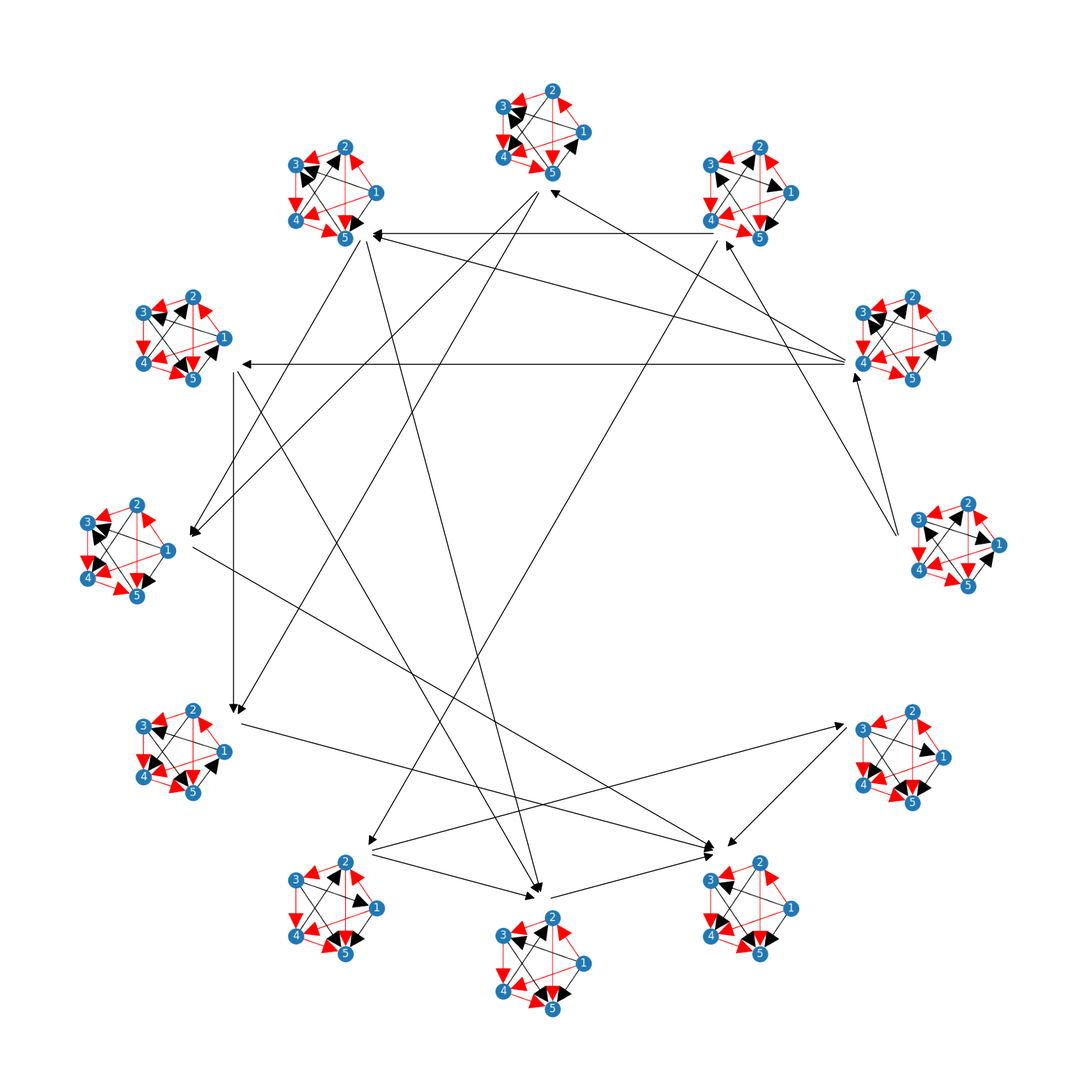
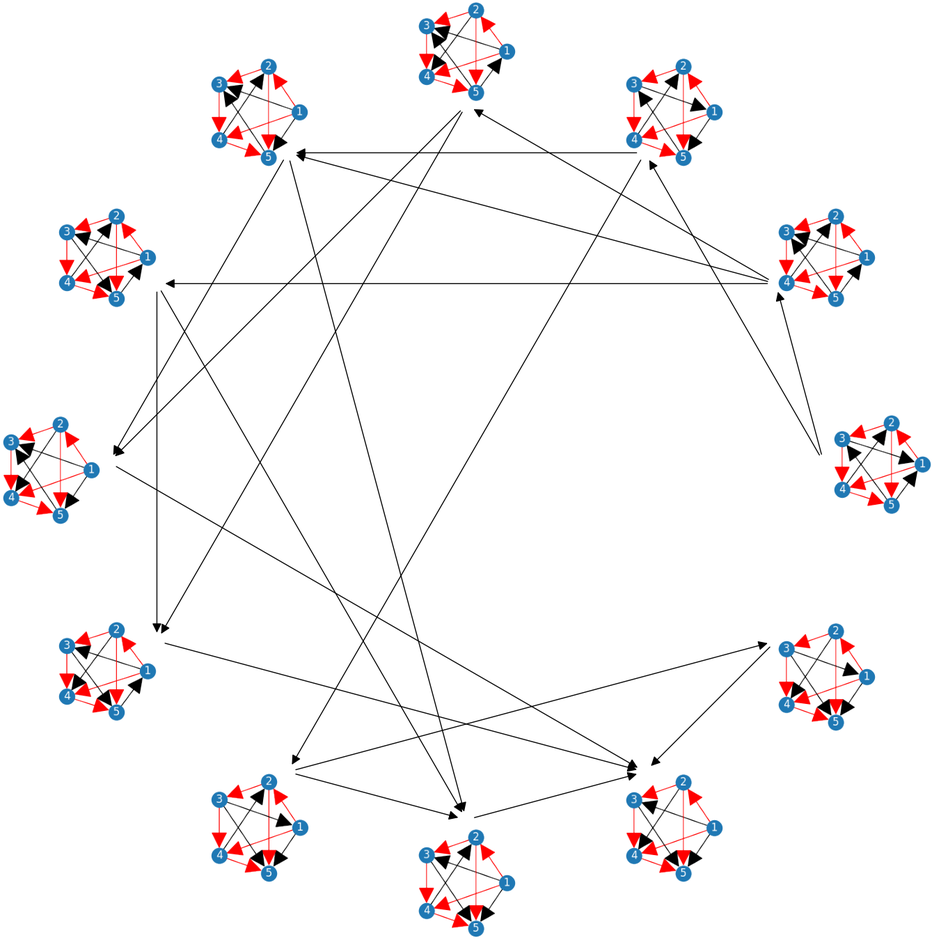
visualization and big iso changes

diff --git a/report_LIPIcs/main.tex b/report_LIPIcs/main.tex
@@ -14,6 +14,12 @@
 %\pdfoutput=1 %uncomment to ensure pdflatex processing (mandatatory e.g. to submit to arXiv)
 %\hideLIPIcs  %uncomment to remove references to LIPIcs series (logo, DOI, ...), e.g. when preparing a pre-final version to be uploaded to arXiv or another public repository
 \usepackage{graphicx}
+\usepackage{pgfplots}
+\pgfplotsset{width=10cm,compat=1.9}
+
+% We will externalize the figures
+\usepgfplotslibrary{external}
+\tikzexternalize
 %\usepackage{amsmath, amssymb}
 %\graphicspath{{./graphics/}}%helpful if your graphic files are in another directory
 
@@ -247,15 +253,114 @@ By the inductive hypothesis,
 
 Additionally, there is a long-known result from graph theory that implies that there are at most $O(n\log n)$ units possible. By the orbit-stabilizer theorem \textbf{need to cite? or just explain more why it applies probably}, the size of the equivalence class of a graph $G$ on $n$ vertices is $\frac{n!}{|Aut(G)|}$, where $Aut(G)$ s the set of distinct automorphisms of $G$. In 1963 Erd\"os and Renyi \textbf{CITE} proved that as $n$ approaches infinity, the proportion of graphs of size $n$ with with multiple automorphisms approaches 0. Therefore, a proportion of graphs approaching 1 have equivalence classes of size $n!$, so the number of equivalence classes is approximately $\frac{2^{n \choose 2}}{n!} \simeq \frac{2^{n \choose 2}}{2^{n\log n}} = 2^{{n \choose 2} - n\log n}$. An isolator with $k$ unit clauses for $n$-vertex graphs admits at most $2^{{n \choose 2} - k}$ equivalence class representatives, so the number of units is also asymptotically upper-bounded by $n \log n$.
 
-\begin{figure}
-\includegraphics[width=0.6\textwidth]{nlogn_200.png}
-\caption{Comparison of $units(n)$ and the proven lower bound denoted as $LB(n)$} \label{nlogn_200}
-\end{figure}
+\begin{tikzpicture}
+\begin{axis}[
+    title={units(n) and lower bound comparison for small n},
+    xlabel={n [number of vertices]},
+    ylabel={number of unit clauses},
+    xmin=0, xmax=200,
+    ymin=0, ymax=600,
+    xtick={0,40,80,120,160,200},
+    ytick={0,100,200,300,400,500,600},
+    legend pos=north west,
+    ymajorgrids=true,
+    grid style=dashed,
+]
 
-\begin{figure}
-\includegraphics[width=0.4\textwidth]{nlogn_huge.png}
-\caption{Comparison of $units(n)$ and the proven lower bound denoted as $LB(n)$ for large $n$} \label{nlogn_huge}
-\end{figure}
+\addplot[
+    color=blue,
+    ]
+    coordinates {
+    (2,0.5)(3,1.0)(4,2.0)(5,3.0)(6,4.0)(7,5.0)(8,6.5)(9,8.0)(10,9.5)(11,11.0)(12,12.5)(13,14.0)(14,15.5)(15,17.0)(16,19.0)(17,21.0)(18,23.0)(19,25.0)(20,27.0)(21,29.0)(22,31.0)(23,33.0)(24,35.0)(25,37.0)(26,39.0)(27,41.0)(28,43.0)(29,45.0)(30,47.0)(31,49.0)(32,51.5)(33,54.0)(34,56.5)(35,59.0)(36,61.5)(37,64.0)(38,66.5)(39,69.0)(40,71.5)(41,74.0)(42,76.5)(43,79.0)(44,81.5)(45,84.0)(46,86.5)(47,89.0)(48,91.5)(49,94.0)(50,96.5)(51,99.0)(52,101.5)(53,104.0)(54,106.5)(55,109.0)(56,111.5)(57,114.0)(58,116.5)(59,119.0)(60,121.5)(61,124.0)(62,126.5)(63,129.0)(64,132.0)(65,135.0)(66,138.0)(67,141.0)(68,144.0)(69,147.0)(70,150.0)(71,153.0)(72,156.0)(73,159.0)(74,162.0)(75,165.0)(76,168.0)(77,171.0)(78,174.0)(79,177.0)(80,180.0)(81,183.0)(82,186.0)(83,189.0)(84,192.0)(85,195.0)(86,198.0)(87,201.0)(88,204.0)(89,207.0)(90,210.0)(91,213.0)(92,216.0)(93,219.0)(94,222.0)(95,225.0)(96,228.0)(97,231.0)(98,234.0)(99,237.0)(100,240.0)(101,243.0)(102,246.0)(103,249.0)(104,252.0)(105,255.0)(106,258.0)(107,261.0)(108,264.0)(109,267.0)(110,270.0)(111,273.0)(112,276.0)(113,279.0)(114,282.0)(115,285.0)(116,288.0)(117,291.0)(118,294.0)(119,297.0)(120,300.0)(121,303.0)(122,306.0)(123,309.0)(124,312.0)(125,315.0)(126,318.0)(127,321.0)(128,324.5)(129,328.0)(130,331.5)(131,335.0)(132,338.5)(133,342.0)(134,345.5)(135,349.0)(136,352.5)(137,356.0)(138,359.5)(139,363.0)(140,366.5)(141,370.0)(142,373.5)(143,377.0)(144,380.5)(145,384.0)(146,387.5)(147,391.0)(148,394.5)(149,398.0)(150,401.5)(151,405.0)(152,408.5)(153,412.0)(154,415.5)(155,419.0)(156,422.5)(157,426.0)(158,429.5)(159,433.0)(160,436.5)(161,440.0)(162,443.5)(163,447.0)(164,450.5)(165,454.0)(166,457.5)(167,461.0)(168,464.5)(169,468.0)(170,471.5)(171,475.0)(172,478.5)(173,482.0)(174,485.5)(175,489.0)(176,492.5)(177,496.0)(178,499.5)(179,503.0)(180,506.5)(181,510.0)(182,513.5)(183,517.0)(184,520.5)(185,524.0)(186,527.5)(187,531.0)(188,534.5)(189,538.0)(190,541.5)(191,545.0)(192,548.5)(193,552.0)(194,555.5)(195,559.0)(196,562.5)(197,566.0)(198,569.5)(199,573.0)
+    };
+    \addlegendentry{$\frac{1}{2}\sum_{i=1}^n \log_2(i)$}
+    
+\addplot[
+    color=red,
+    ]
+    coordinates {
+(2,1)(3,1)(4,3)(5,4)(6,4)(7,6)(8,9)(9,10)(10,10)(11,12)(12,15)(13,16)(14,16)(15,18)(16,22)(17,25)(18,26)(19,26)(20,28)(21,32)(22,35)(23,36)(24,36)(25,38)(26,42)(27,45)(28,46)(29,46)(30,48)(31,52)(32,57)(33,60)(34,61)(35,61)(36,63)(37,67)(38,72)(39,75)(40,76)(41,76)(42,78)(43,82)(44,87)(45,90)(46,91)(47,91)(48,93)(49,97)(50,102)(51,105)(52,106)(53,106)(54,108)(55,112)(56,117)(57,120)(58,121)(59,121)(60,123)(61,127)(62,132)(63,135)(64,141)(65,142)(66,142)(67,144)(68,148)(69,153)(70,156)(71,162)(72,163)(73,163)(74,165)(75,169)(76,174)(77,177)(78,183)(79,184)(80,184)(81,186)(82,190)(83,195)(84,198)(85,204)(86,205)(87,205)(88,207)(89,211)(90,216)(91,219)(92,225)(93,226)(94,226)(95,228)(96,232)(97,237)(98,240)(99,246)(100,247)(101,247)(102,249)(103,253)(104,258)(105,261)(106,267)(107,268)(108,268)(109,270)(110,274)(111,279)(112,282)(113,288)(114,289)(115,289)(116,291)(117,295)(118,300)(119,303)(120,309)(121,310)(122,310)(123,312)(124,316)(125,321)(126,324)(127,330)(128,337)(129,338)(130,338)(131,340)(132,344)(133,349)(134,352)(135,358)(136,365)(137,366)(138,366)(139,368)(140,372)(141,377)(142,380)(143,386)(144,393)(145,394)(146,394)(147,396)(148,400)(149,405)(150,408)(151,414)(152,421)(153,422)(154,422)(155,424)(156,428)(157,433)(158,436)(159,442)(160,449)(161,450)(162,450)(163,452)(164,456)(165,461)(166,464)(167,470)(168,477)(169,478)(170,478)(171,480)(172,484)(173,489)(174,492)(175,498)(176,505)(177,506)(178,506)(179,508)(180,512)(181,517)(182,520)(183,526)(184,533)(185,534)(186,534)(187,536)(188,540)(189,545)(190,548)(191,554)(192,561)(193,562)(194,562)(195,564)(196,568)(197,573)(198,576)(199,582)
+    };
+    \addlegendentry{units(n)}
+    
+\end{axis}
+\end{tikzpicture}
+
+\begin{tikzpicture}
+\begin{axis}[
+    title={units(n) and lower bound comparison for large n},
+    xlabel={n [number of vertices]},
+    ylabel={number of unit clauses},
+    xmin=0, xmax=100000,
+    ymin=0, ymax=800000,
+    xtick={0,20000,40000,60000,80000,100000},
+    ytick={0,100000,200000,300000,400000,500000,600000,700000,800000},
+    legend pos=north west,
+    ymajorgrids=true,
+    grid style=dashed,
+]
+
+\addplot[
+    color=blue,
+    ]
+    coordinates {
+(2,0.5)(101,243.0)(200,576.5)(299,945.0)(398,1341.0)(497,1737.0)(596,2175.5)(695,2621.0)(794,3066.5)(893,3512.0)(992,3957.5)(1091,4437.0)(1190,4932.0)(1289,5427.0)(1388,5922.0)(1487,6417.0)(1586,6912.0)(1685,7407.0)(1784,7902.0)(1883,8397.0)(1982,8892.0)(2081,9404.0)(2180,9948.5)(2279,10493.0)(2378,11037.5)(2477,11582.0)(2576,12126.5)(2675,12671.0)(2774,13215.5)(2873,13760.0)(2972,14304.5)(3071,14849.0)(3170,15393.5)(3269,15938.0)(3368,16482.5)(3467,17027.0)(3566,17571.5)(3665,18116.0)(3764,18660.5)(3863,19205.0)(3962,19749.5)(4061,20294.0)(4160,20871.0)(4259,21465.0)(4358,22059.0)(4457,22653.0)(4556,23247.0)(4655,23841.0)(4754,24435.0)(4853,25029.0)(4952,25623.0)(5051,26217.0)(5150,26811.0)(5249,27405.0)(5348,27999.0)(5447,28593.0)(5546,29187.0)(5645,29781.0)(5744,30375.0)(5843,30969.0)(5942,31563.0)(6041,32157.0)(6140,32751.0)(6239,33345.0)(6338,33939.0)(6437,34533.0)(6536,35127.0)(6635,35721.0)(6734,36315.0)(6833,36909.0)(6932,37503.0)(7031,38097.0)(7130,38691.0)(7229,39285.0)(7328,39879.0)(7427,40473.0)(7526,41067.0)(7625,41661.0)(7724,42255.0)(7823,42849.0)(7922,43443.0)(8021,44037.0)(8120,44631.0)(8219,45239.0)(8318,45882.5)(8417,46526.0)(8516,47169.5)(8615,47813.0)(8714,48456.5)(8813,49100.0)(8912,49743.5)(9011,50387.0)(9110,51030.5)(9209,51674.0)(9308,52317.5)(9407,52961.0)(9506,53604.5)(9605,54248.0)(9704,54891.5)(9803,55535.0)(9902,56178.5)(10001,56822.0)(10100,57465.5)(10199,58109.0)(10298,58752.5)(10397,59396.0)(10496,60039.5)(10595,60683.0)(10694,61326.5)(10793,61970.0)(10892,62613.5)(10991,63257.0)(11090,63900.5)(11189,64544.0)(11288,65187.5)(11387,65831.0)(11486,66474.5)(11585,67118.0)(11684,67761.5)(11783,68405.0)(11882,69048.5)(11981,69692.0)(12080,70335.5)(12179,70979.0)(12278,71622.5)(12377,72266.0)(12476,72909.5)(12575,73553.0)(12674,74196.5)(12773,74840.0)(12872,75483.5)(12971,76127.0)(13070,76770.5)(13169,77414.0)(13268,78057.5)(13367,78701.0)(13466,79344.5)(13565,79988.0)(13664,80631.5)(13763,81275.0)(13862,81918.5)(13961,82562.0)(14060,83205.5)(14159,83849.0)(14258,84492.5)(14357,85136.0)(14456,85779.5)(14555,86423.0)(14654,87066.5)(14753,87710.0)(14852,88353.5)(14951,88997.0)(15050,89640.5)(15149,90284.0)(15248,90927.5)(15347,91571.0)(15446,92214.5)(15545,92858.0)(15644,93501.5)(15743,94145.0)(15842,94788.5)(15941,95432.0)(16040,96075.5)(16139,96719.0)(16238,97362.5)(16337,98006.0)(16436,98676.0)(16535,99369.0)(16634,100062.0)(16733,100755.0)(16832,101448.0)(16931,102141.0)(17030,102834.0)(17129,103527.0)(17228,104220.0)(17327,104913.0)(17426,105606.0)(17525,106299.0)(17624,106992.0)(17723,107685.0)(17822,108378.0)(17921,109071.0)(18020,109764.0)(18119,110457.0)(18218,111150.0)(18317,111843.0)(18416,112536.0)(18515,113229.0)(18614,113922.0)(18713,114615.0)(18812,115308.0)(18911,116001.0)(19010,116694.0)(19109,117387.0)(19208,118080.0)(19307,118773.0)(19406,119466.0)(19505,120159.0)(19604,120852.0)(19703,121545.0)(19802,122238.0)(19901,122931.0)(20000,123624.0)(20099,124317.0)(20198,125010.0)(20297,125703.0)(20396,126396.0)(20495,127089.0)(20594,127782.0)(20693,128475.0)(20792,129168.0)(20891,129861.0)(20990,130554.0)(21089,131247.0)(21188,131940.0)(21287,132633.0)(21386,133326.0)(21485,134019.0)(21584,134712.0)(21683,135405.0)(21782,136098.0)(21881,136791.0)(21980,137484.0)(22079,138177.0)(22178,138870.0)(22277,139563.0)(22376,140256.0)(22475,140949.0)(22574,141642.0)(22673,142335.0)(22772,143028.0)(22871,143721.0)(22970,144414.0)(23069,145107.0)(23168,145800.0)(23267,146493.0)(23366,147186.0)(23465,147879.0)(23564,148572.0)(23663,149265.0)(23762,149958.0)(23861,150651.0)(23960,151344.0)(24059,152037.0)(24158,152730.0)(24257,153423.0)(24356,154116.0)(24455,154809.0)(24554,155502.0)(24653,156195.0)(24752,156888.0)(24851,157581.0)(24950,158274.0)(25049,158967.0)(25148,159660.0)(25247,160353.0)(25346,161046.0)(25445,161739.0)(25544,162432.0)(25643,163125.0)(25742,163818.0)(25841,164511.0)(25940,165204.0)(26039,165897.0)(26138,166590.0)(26237,167283.0)(26336,167976.0)(26435,168669.0)(26534,169362.0)(26633,170055.0)(26732,170748.0)(26831,171441.0)(26930,172134.0)(27029,172827.0)(27128,173520.0)(27227,174213.0)(27326,174906.0)(27425,175599.0)(27524,176292.0)(27623,176985.0)(27722,177678.0)(27821,178371.0)(27920,179064.0)(28019,179757.0)(28118,180450.0)(28217,181143.0)(28316,181836.0)(28415,182529.0)(28514,183222.0)(28613,183915.0)(28712,184608.0)(28811,185301.0)(28910,185994.0)(29009,186687.0)(29108,187380.0)(29207,188073.0)(29306,188766.0)(29405,189459.0)(29504,190152.0)(29603,190845.0)(29702,191538.0)(29801,192231.0)(29900,192924.0)(29999,193617.0)(30098,194310.0)(30197,195003.0)(30296,195696.0)(30395,196389.0)(30494,197082.0)(30593,197775.0)(30692,198468.0)(30791,199161.0)(30890,199854.0)(30989,200547.0)(31088,201240.0)(31187,201933.0)(31286,202626.0)(31385,203319.0)(31484,204012.0)(31583,204705.0)(31682,205398.0)(31781,206091.0)(31880,206784.0)(31979,207477.0)(32078,208170.0)(32177,208863.0)(32276,209556.0)(32375,210249.0)(32474,210942.0)(32573,211635.0)(32672,212328.0)(32771,213023.0)(32870,213765.5)(32969,214508.0)(33068,215250.5)(33167,215993.0)(33266,216735.5)(33365,217478.0)(33464,218220.5)(33563,218963.0)(33662,219705.5)(33761,220448.0)(33860,221190.5)(33959,221933.0)(34058,222675.5)(34157,223418.0)(34256,224160.5)(34355,224903.0)(34454,225645.5)(34553,226388.0)(34652,227130.5)(34751,227873.0)(34850,228615.5)(34949,229358.0)(35048,230100.5)(35147,230843.0)(35246,231585.5)(35345,232328.0)(35444,233070.5)(35543,233813.0)(35642,234555.5)(35741,235298.0)(35840,236040.5)(35939,236783.0)(36038,237525.5)(36137,238268.0)(36236,239010.5)(36335,239753.0)(36434,240495.5)(36533,241238.0)(36632,241980.5)(36731,242723.0)(36830,243465.5)(36929,244208.0)(37028,244950.5)(37127,245693.0)(37226,246435.5)(37325,247178.0)(37424,247920.5)(37523,248663.0)(37622,249405.5)(37721,250148.0)(37820,250890.5)(37919,251633.0)(38018,252375.5)(38117,253118.0)(38216,253860.5)(38315,254603.0)(38414,255345.5)(38513,256088.0)(38612,256830.5)(38711,257573.0)(38810,258315.5)(38909,259058.0)(39008,259800.5)(39107,260543.0)(39206,261285.5)(39305,262028.0)(39404,262770.5)(39503,263513.0)(39602,264255.5)(39701,264998.0)(39800,265740.5)(39899,266483.0)(39998,267225.5)(40097,267968.0)(40196,268710.5)(40295,269453.0)(40394,270195.5)(40493,270938.0)(40592,271680.5)(40691,272423.0)(40790,273165.5)(40889,273908.0)(40988,274650.5)(41087,275393.0)(41186,276135.5)(41285,276878.0)(41384,277620.5)(41483,278363.0)(41582,279105.5)(41681,279848.0)(41780,280590.5)(41879,281333.0)(41978,282075.5)(42077,282818.0)(42176,283560.5)(42275,284303.0)(42374,285045.5)(42473,285788.0)(42572,286530.5)(42671,287273.0)(42770,288015.5)(42869,288758.0)(42968,289500.5)(43067,290243.0)(43166,290985.5)(43265,291728.0)(43364,292470.5)(43463,293213.0)(43562,293955.5)(43661,294698.0)(43760,295440.5)(43859,296183.0)(43958,296925.5)(44057,297668.0)(44156,298410.5)(44255,299153.0)(44354,299895.5)(44453,300638.0)(44552,301380.5)(44651,302123.0)(44750,302865.5)(44849,303608.0)(44948,304350.5)(45047,305093.0)(45146,305835.5)(45245,306578.0)(45344,307320.5)(45443,308063.0)(45542,308805.5)(45641,309548.0)(45740,310290.5)(45839,311033.0)(45938,311775.5)(46037,312518.0)(46136,313260.5)(46235,314003.0)(46334,314745.5)(46433,315488.0)(46532,316230.5)(46631,316973.0)(46730,317715.5)(46829,318458.0)(46928,319200.5)(47027,319943.0)(47126,320685.5)(47225,321428.0)(47324,322170.5)(47423,322913.0)(47522,323655.5)(47621,324398.0)(47720,325140.5)(47819,325883.0)(47918,326625.5)(48017,327368.0)(48116,328110.5)(48215,328853.0)(48314,329595.5)(48413,330338.0)(48512,331080.5)(48611,331823.0)(48710,332565.5)(48809,333308.0)(48908,334050.5)(49007,334793.0)(49106,335535.5)(49205,336278.0)(49304,337020.5)(49403,337763.0)(49502,338505.5)(49601,339248.0)(49700,339990.5)(49799,340733.0)(49898,341475.5)(49997,342218.0)(50096,342960.5)(50195,343703.0)(50294,344445.5)(50393,345188.0)(50492,345930.5)(50591,346673.0)(50690,347415.5)(50789,348158.0)(50888,348900.5)(50987,349643.0)(51086,350385.5)(51185,351128.0)(51284,351870.5)(51383,352613.0)(51482,353355.5)(51581,354098.0)(51680,354840.5)(51779,355583.0)(51878,356325.5)(51977,357068.0)(52076,357810.5)(52175,358553.0)(52274,359295.5)(52373,360038.0)(52472,360780.5)(52571,361523.0)(52670,362265.5)(52769,363008.0)(52868,363750.5)(52967,364493.0)(53066,365235.5)(53165,365978.0)(53264,366720.5)(53363,367463.0)(53462,368205.5)(53561,368948.0)(53660,369690.5)(53759,370433.0)(53858,371175.5)(53957,371918.0)(54056,372660.5)(54155,373403.0)(54254,374145.5)(54353,374888.0)(54452,375630.5)(54551,376373.0)(54650,377115.5)(54749,377858.0)(54848,378600.5)(54947,379343.0)(55046,380085.5)(55145,380828.0)(55244,381570.5)(55343,382313.0)(55442,383055.5)(55541,383798.0)(55640,384540.5)(55739,385283.0)(55838,386025.5)(55937,386768.0)(56036,387510.5)(56135,388253.0)(56234,388995.5)(56333,389738.0)(56432,390480.5)(56531,391223.0)(56630,391965.5)(56729,392708.0)(56828,393450.5)(56927,394193.0)(57026,394935.5)(57125,395678.0)(57224,396420.5)(57323,397163.0)(57422,397905.5)(57521,398648.0)(57620,399390.5)(57719,400133.0)(57818,400875.5)(57917,401618.0)(58016,402360.5)(58115,403103.0)(58214,403845.5)(58313,404588.0)(58412,405330.5)(58511,406073.0)(58610,406815.5)(58709,407558.0)(58808,408300.5)(58907,409043.0)(59006,409785.5)(59105,410528.0)(59204,411270.5)(59303,412013.0)(59402,412755.5)(59501,413498.0)(59600,414240.5)(59699,414983.0)(59798,415725.5)(59897,416468.0)(59996,417210.5)(60095,417953.0)(60194,418695.5)(60293,419438.0)(60392,420180.5)(60491,420923.0)(60590,421665.5)(60689,422408.0)(60788,423150.5)(60887,423893.0)(60986,424635.5)(61085,425378.0)(61184,426120.5)(61283,426863.0)(61382,427605.5)(61481,428348.0)(61580,429090.5)(61679,429833.0)(61778,430575.5)(61877,431318.0)(61976,432060.5)(62075,432803.0)(62174,433545.5)(62273,434288.0)(62372,435030.5)(62471,435773.0)(62570,436515.5)(62669,437258.0)(62768,438000.5)(62867,438743.0)(62966,439485.5)(63065,440228.0)(63164,440970.5)(63263,441713.0)(63362,442455.5)(63461,443198.0)(63560,443940.5)(63659,444683.0)(63758,445425.5)(63857,446168.0)(63956,446910.5)(64055,447653.0)(64154,448395.5)(64253,449138.0)(64352,449880.5)(64451,450623.0)(64550,451365.5)(64649,452108.0)(64748,452850.5)(64847,453593.0)(64946,454335.5)(65045,455078.0)(65144,455820.5)(65243,456563.0)(65342,457305.5)(65441,458048.0)(65540,458793.0)(65639,459585.0)(65738,460377.0)(65837,461169.0)(65936,461961.0)(66035,462753.0)(66134,463545.0)(66233,464337.0)(66332,465129.0)(66431,465921.0)(66530,466713.0)(66629,467505.0)(66728,468297.0)(66827,469089.0)(66926,469881.0)(67025,470673.0)(67124,471465.0)(67223,472257.0)(67322,473049.0)(67421,473841.0)(67520,474633.0)(67619,475425.0)(67718,476217.0)(67817,477009.0)(67916,477801.0)(68015,478593.0)(68114,479385.0)(68213,480177.0)(68312,480969.0)(68411,481761.0)(68510,482553.0)(68609,483345.0)(68708,484137.0)(68807,484929.0)(68906,485721.0)(69005,486513.0)(69104,487305.0)(69203,488097.0)(69302,488889.0)(69401,489681.0)(69500,490473.0)(69599,491265.0)(69698,492057.0)(69797,492849.0)(69896,493641.0)(69995,494433.0)(70094,495225.0)(70193,496017.0)(70292,496809.0)(70391,497601.0)(70490,498393.0)(70589,499185.0)(70688,499977.0)(70787,500769.0)(70886,501561.0)(70985,502353.0)(71084,503145.0)(71183,503937.0)(71282,504729.0)(71381,505521.0)(71480,506313.0)(71579,507105.0)(71678,507897.0)(71777,508689.0)(71876,509481.0)(71975,510273.0)(72074,511065.0)(72173,511857.0)(72272,512649.0)(72371,513441.0)(72470,514233.0)(72569,515025.0)(72668,515817.0)(72767,516609.0)(72866,517401.0)(72965,518193.0)(73064,518985.0)(73163,519777.0)(73262,520569.0)(73361,521361.0)(73460,522153.0)(73559,522945.0)(73658,523737.0)(73757,524529.0)(73856,525321.0)(73955,526113.0)(74054,526905.0)(74153,527697.0)(74252,528489.0)(74351,529281.0)(74450,530073.0)(74549,530865.0)(74648,531657.0)(74747,532449.0)(74846,533241.0)(74945,534033.0)(75044,534825.0)(75143,535617.0)(75242,536409.0)(75341,537201.0)(75440,537993.0)(75539,538785.0)(75638,539577.0)(75737,540369.0)(75836,541161.0)(75935,541953.0)(76034,542745.0)(76133,543537.0)(76232,544329.0)(76331,545121.0)(76430,545913.0)(76529,546705.0)(76628,547497.0)(76727,548289.0)(76826,549081.0)(76925,549873.0)(77024,550665.0)(77123,551457.0)(77222,552249.0)(77321,553041.0)(77420,553833.0)(77519,554625.0)(77618,555417.0)(77717,556209.0)(77816,557001.0)(77915,557793.0)(78014,558585.0)(78113,559377.0)(78212,560169.0)(78311,560961.0)(78410,561753.0)(78509,562545.0)(78608,563337.0)(78707,564129.0)(78806,564921.0)(78905,565713.0)(79004,566505.0)(79103,567297.0)(79202,568089.0)(79301,568881.0)(79400,569673.0)(79499,570465.0)(79598,571257.0)(79697,572049.0)(79796,572841.0)(79895,573633.0)(79994,574425.0)(80093,575217.0)(80192,576009.0)(80291,576801.0)(80390,577593.0)(80489,578385.0)(80588,579177.0)(80687,579969.0)(80786,580761.0)(80885,581553.0)(80984,582345.0)(81083,583137.0)(81182,583929.0)(81281,584721.0)(81380,585513.0)(81479,586305.0)(81578,587097.0)(81677,587889.0)(81776,588681.0)(81875,589473.0)(81974,590265.0)(82073,591057.0)(82172,591849.0)(82271,592641.0)(82370,593433.0)(82469,594225.0)(82568,595017.0)(82667,595809.0)(82766,596601.0)(82865,597393.0)(82964,598185.0)(83063,598977.0)(83162,599769.0)(83261,600561.0)(83360,601353.0)(83459,602145.0)(83558,602937.0)(83657,603729.0)(83756,604521.0)(83855,605313.0)(83954,606105.0)(84053,606897.0)(84152,607689.0)(84251,608481.0)(84350,609273.0)(84449,610065.0)(84548,610857.0)(84647,611649.0)(84746,612441.0)(84845,613233.0)(84944,614025.0)(85043,614817.0)(85142,615609.0)(85241,616401.0)(85340,617193.0)(85439,617985.0)(85538,618777.0)(85637,619569.0)(85736,620361.0)(85835,621153.0)(85934,621945.0)(86033,622737.0)(86132,623529.0)(86231,624321.0)(86330,625113.0)(86429,625905.0)(86528,626697.0)(86627,627489.0)(86726,628281.0)(86825,629073.0)(86924,629865.0)(87023,630657.0)(87122,631449.0)(87221,632241.0)(87320,633033.0)(87419,633825.0)(87518,634617.0)(87617,635409.0)(87716,636201.0)(87815,636993.0)(87914,637785.0)(88013,638577.0)(88112,639369.0)(88211,640161.0)(88310,640953.0)(88409,641745.0)(88508,642537.0)(88607,643329.0)(88706,644121.0)(88805,644913.0)(88904,645705.0)(89003,646497.0)(89102,647289.0)(89201,648081.0)(89300,648873.0)(89399,649665.0)(89498,650457.0)(89597,651249.0)(89696,652041.0)(89795,652833.0)(89894,653625.0)(89993,654417.0)(90092,655209.0)(90191,656001.0)(90290,656793.0)(90389,657585.0)(90488,658377.0)(90587,659169.0)(90686,659961.0)(90785,660753.0)(90884,661545.0)(90983,662337.0)(91082,663129.0)(91181,663921.0)(91280,664713.0)(91379,665505.0)(91478,666297.0)(91577,667089.0)(91676,667881.0)(91775,668673.0)(91874,669465.0)(91973,670257.0)(92072,671049.0)(92171,671841.0)(92270,672633.0)(92369,673425.0)(92468,674217.0)(92567,675009.0)(92666,675801.0)(92765,676593.0)(92864,677385.0)(92963,678177.0)(93062,678969.0)(93161,679761.0)(93260,680553.0)(93359,681345.0)(93458,682137.0)(93557,682929.0)(93656,683721.0)(93755,684513.0)(93854,685305.0)(93953,686097.0)(94052,686889.0)(94151,687681.0)(94250,688473.0)(94349,689265.0)(94448,690057.0)(94547,690849.0)(94646,691641.0)(94745,692433.0)(94844,693225.0)(94943,694017.0)(95042,694809.0)(95141,695601.0)(95240,696393.0)(95339,697185.0)(95438,697977.0)(95537,698769.0)(95636,699561.0)(95735,700353.0)(95834,701145.0)(95933,701937.0)(96032,702729.0)(96131,703521.0)(96230,704313.0)(96329,705105.0)(96428,705897.0)(96527,706689.0)(96626,707481.0)(96725,708273.0)(96824,709065.0)(96923,709857.0)(97022,710649.0)(97121,711441.0)(97220,712233.0)(97319,713025.0)(97418,713817.0)(97517,714609.0)(97616,715401.0)(97715,716193.0)(97814,716985.0)(97913,717777.0)(98012,718569.0)(98111,719361.0)(98210,720153.0)(98309,720945.0)(98408,721737.0)(98507,722529.0)(98606,723321.0)(98705,724113.0)(98804,724905.0)(98903,725697.0)(99002,726489.0)(99101,727281.0)(99200,728073.0)(99299,728865.0)(99398,729657.0)(99497,730449.0)(99596,731241.0)(99695,732033.0)(99794,732825.0)(99893,733617.0)(99992,734409.0)
+    };
+    \addlegendentry{$\frac{1}{2}\sum_{i=1}^n \log_2(i)$}
+    
+\addplot[
+    color=red,
+    ]
+    coordinates {
+(2,1)(101,247)(200,589)(299,952)(398,1348)(497,1744)(596,2185)(695,2632)(794,3077)(893,3523)(992,3971)(1091,4452)(1190,4947)(1289,5442)(1388,5937)(1487,6432)(1586,6927)(1685,7422)(1784,7917)(1883,8412)(1982,8907)(2081,9419)(2180,9970)(2279,10510)(2378,11059)(2477,11597)(2576,12148)(2675,12688)(2774,13237)(2873,13775)(2972,14326)(3071,14866)(3170,15415)(3269,15953)(3368,16504)(3467,17044)(3566,17593)(3665,18131)(3764,18682)(3863,19222)(3962,19771)(4061,20309)(4160,20888)(4259,21487)(4358,22079)(4457,22674)(4556,23272)(4655,23864)(4754,24454)(4853,25045)(4952,25645)(5051,26240)(5150,26828)(5249,27424)(5348,28019)(5447,28610)(5546,29209)(5645,29801)(5744,30396)(5843,30994)(5942,31586)(6041,32176)(6140,32767)(6239,33367)(6338,33962)(6437,34550)(6536,35146)(6635,35741)(6734,36332)(6833,36931)(6932,37523)(7031,38118)(7130,38716)(7229,39308)(7328,39898)(7427,40489)(7526,41089)(7625,41684)(7724,42272)(7823,42868)(7922,43463)(8021,44054)(8120,44653)(8219,45262)(8318,45912)(8417,46549)(8516,47195)(8615,47834)(8714,48481)(8813,49129)(8912,49770)(9011,50412)(9110,51052)(9209,51695)(9308,52340)(9407,52984)(9506,53622)(9605,54271)(9704,54921)(9803,55558)(9902,56204)(10001,56843)(10100,57490)(10199,58138)(10298,58779)(10397,59421)(10496,60061)(10595,60704)(10694,61349)(10793,61993)(10892,62631)(10991,63280)(11090,63930)(11189,64567)(11288,65213)(11387,65852)(11486,66499)(11585,67147)(11684,67788)(11783,68430)(11882,69070)(11981,69713)(12080,70358)(12179,71002)(12278,71640)(12377,72289)(12476,72939)(12575,73576)(12674,74222)(12773,74861)(12872,75508)(12971,76156)(13070,76797)(13169,77439)(13268,78079)(13367,78722)(13466,79367)(13565,80011)(13664,80649)(13763,81298)(13862,81948)(13961,82585)(14060,83231)(14159,83870)(14258,84517)(14357,85165)(14456,85806)(14555,86448)(14654,87088)(14753,87731)(14852,88376)(14951,89020)(15050,89658)(15149,90307)(15248,90957)(15347,91594)(15446,92240)(15545,92879)(15644,93526)(15743,94174)(15842,94815)(15941,95457)(16040,96097)(16139,96740)(16238,97385)(16337,98029)(16436,98701)(16535,99401)(16634,100087)(16733,100789)(16832,101478)(16931,102166)(17030,102866)(17129,103552)(17228,104254)(17327,104943)(17426,105631)(17525,106331)(17624,107017)(17723,107719)(17822,108408)(17921,109096)(18020,109796)(18119,110482)(18218,111184)(18317,111873)(18416,112561)(18515,113261)(18614,113947)(18713,114649)(18812,115338)(18911,116026)(19010,116726)(19109,117412)(19208,118114)(19307,118803)(19406,119491)(19505,120191)(19604,120877)(19703,121579)(19802,122268)(19901,122956)(20000,123656)(20099,124342)(20198,125044)(20297,125733)(20396,126421)(20495,127121)(20594,127807)(20693,128509)(20792,129198)(20891,129886)(20990,130586)(21089,131272)(21188,131974)(21287,132663)(21386,133351)(21485,134051)(21584,134737)(21683,135439)(21782,136128)(21881,136816)(21980,137516)(22079,138202)(22178,138904)(22277,139593)(22376,140281)(22475,140981)(22574,141667)(22673,142369)(22772,143058)(22871,143746)(22970,144446)(23069,145132)(23168,145834)(23267,146523)(23366,147211)(23465,147911)(23564,148597)(23663,149299)(23762,149988)(23861,150676)(23960,151376)(24059,152062)(24158,152764)(24257,153453)(24356,154141)(24455,154841)(24554,155527)(24653,156229)(24752,156918)(24851,157606)(24950,158306)(25049,158992)(25148,159694)(25247,160383)(25346,161071)(25445,161771)(25544,162457)(25643,163159)(25742,163848)(25841,164536)(25940,165236)(26039,165922)(26138,166624)(26237,167313)(26336,168001)(26435,168701)(26534,169387)(26633,170089)(26732,170778)(26831,171466)(26930,172166)(27029,172852)(27128,173554)(27227,174243)(27326,174931)(27425,175631)(27524,176317)(27623,177019)(27722,177708)(27821,178396)(27920,179096)(28019,179782)(28118,180484)(28217,181173)(28316,181861)(28415,182561)(28514,183247)(28613,183949)(28712,184638)(28811,185326)(28910,186026)(29009,186712)(29108,187414)(29207,188103)(29306,188791)(29405,189491)(29504,190177)(29603,190879)(29702,191568)(29801,192256)(29900,192956)(29999,193642)(30098,194344)(30197,195033)(30296,195721)(30395,196421)(30494,197107)(30593,197809)(30692,198498)(30791,199186)(30890,199886)(30989,200572)(31088,201274)(31187,201963)(31286,202651)(31385,203351)(31484,204037)(31583,204739)(31682,205428)(31781,206116)(31880,206816)(31979,207502)(32078,208204)(32177,208893)(32276,209581)(32375,210281)(32474,210967)(32573,211669)(32672,212358)(32771,213058)(32870,213795)(32969,214535)(33068,215282)(33167,216023)(33266,216773)(33365,217507)(33464,218243)(33563,218988)(33662,219733)(33761,220489)(33860,221221)(33959,221962)(34058,222708)(34157,223451)(34256,224198)(34355,224938)(34454,225675)(34553,226415)(34652,227162)(34751,227903)(34850,228653)(34949,229387)(35048,230123)(35147,230868)(35246,231613)(35345,232369)(35444,233101)(35543,233842)(35642,234588)(35741,235331)(35840,236078)(35939,236818)(36038,237555)(36137,238295)(36236,239042)(36335,239783)(36434,240533)(36533,241267)(36632,242003)(36731,242748)(36830,243493)(36929,244249)(37028,244981)(37127,245722)(37226,246468)(37325,247211)(37424,247958)(37523,248698)(37622,249435)(37721,250175)(37820,250922)(37919,251663)(38018,252413)(38117,253147)(38216,253883)(38315,254628)(38414,255373)(38513,256129)(38612,256861)(38711,257602)(38810,258348)(38909,259091)(39008,259838)(39107,260578)(39206,261315)(39305,262055)(39404,262802)(39503,263543)(39602,264293)(39701,265027)(39800,265763)(39899,266508)(39998,267253)(40097,268009)(40196,268741)(40295,269482)(40394,270228)(40493,270971)(40592,271718)(40691,272458)(40790,273195)(40889,273935)(40988,274682)(41087,275423)(41186,276173)(41285,276907)(41384,277643)(41483,278388)(41582,279133)(41681,279889)(41780,280621)(41879,281362)(41978,282108)(42077,282851)(42176,283598)(42275,284338)(42374,285075)(42473,285815)(42572,286562)(42671,287303)(42770,288053)(42869,288787)(42968,289523)(43067,290268)(43166,291013)(43265,291769)(43364,292501)(43463,293242)(43562,293988)(43661,294731)(43760,295478)(43859,296218)(43958,296955)(44057,297695)(44156,298442)(44255,299183)(44354,299933)(44453,300667)(44552,301403)(44651,302148)(44750,302893)(44849,303649)(44948,304381)(45047,305122)(45146,305868)(45245,306611)(45344,307358)(45443,308098)(45542,308835)(45641,309575)(45740,310322)(45839,311063)(45938,311813)(46037,312547)(46136,313283)(46235,314028)(46334,314773)(46433,315529)(46532,316261)(46631,317002)(46730,317748)(46829,318491)(46928,319238)(47027,319978)(47126,320715)(47225,321455)(47324,322202)(47423,322943)(47522,323693)(47621,324427)(47720,325163)(47819,325908)(47918,326653)(48017,327409)(48116,328141)(48215,328882)(48314,329628)(48413,330371)(48512,331118)(48611,331858)(48710,332595)(48809,333335)(48908,334082)(49007,334823)(49106,335573)(49205,336307)(49304,337043)(49403,337788)(49502,338533)(49601,339289)(49700,340021)(49799,340762)(49898,341508)(49997,342251)(50096,342998)(50195,343738)(50294,344475)(50393,345215)(50492,345962)(50591,346703)(50690,347453)(50789,348187)(50888,348923)(50987,349668)(51086,350413)(51185,351169)(51284,351901)(51383,352642)(51482,353388)(51581,354131)(51680,354878)(51779,355618)(51878,356355)(51977,357095)(52076,357842)(52175,358583)(52274,359333)(52373,360067)(52472,360803)(52571,361548)(52670,362293)(52769,363049)(52868,363781)(52967,364522)(53066,365268)(53165,366011)(53264,366758)(53363,367498)(53462,368235)(53561,368975)(53660,369722)(53759,370463)(53858,371213)(53957,371947)(54056,372683)(54155,373428)(54254,374173)(54353,374929)(54452,375661)(54551,376402)(54650,377148)(54749,377891)(54848,378638)(54947,379378)(55046,380115)(55145,380855)(55244,381602)(55343,382343)(55442,383093)(55541,383827)(55640,384563)(55739,385308)(55838,386053)(55937,386809)(56036,387541)(56135,388282)(56234,389028)(56333,389771)(56432,390518)(56531,391258)(56630,391995)(56729,392735)(56828,393482)(56927,394223)(57026,394973)(57125,395707)(57224,396443)(57323,397188)(57422,397933)(57521,398689)(57620,399421)(57719,400162)(57818,400908)(57917,401651)(58016,402398)(58115,403138)(58214,403875)(58313,404615)(58412,405362)(58511,406103)(58610,406853)(58709,407587)(58808,408323)(58907,409068)(59006,409813)(59105,410569)(59204,411301)(59303,412042)(59402,412788)(59501,413531)(59600,414278)(59699,415018)(59798,415755)(59897,416495)(59996,417242)(60095,417983)(60194,418733)(60293,419467)(60392,420203)(60491,420948)(60590,421693)(60689,422449)(60788,423181)(60887,423922)(60986,424668)(61085,425411)(61184,426158)(61283,426898)(61382,427635)(61481,428375)(61580,429122)(61679,429863)(61778,430613)(61877,431347)(61976,432083)(62075,432828)(62174,433573)(62273,434329)(62372,435061)(62471,435802)(62570,436548)(62669,437291)(62768,438038)(62867,438778)(62966,439515)(63065,440255)(63164,441002)(63263,441743)(63362,442493)(63461,443227)(63560,443963)(63659,444708)(63758,445453)(63857,446209)(63956,446941)(64055,447682)(64154,448428)(64253,449171)(64352,449918)(64451,450658)(64550,451395)(64649,452135)(64748,452882)(64847,453623)(64946,454373)(65045,455107)(65144,455843)(65243,456588)(65342,457333)(65441,458089)(65540,458834)(65639,459630)(65738,460405)(65837,461196)(65936,461987)(66035,462787)(66134,463589)(66233,464375)(66332,465163)(66431,465956)(66530,466746)(66629,467541)(66728,468345)(66827,469119)(66926,469914)(67025,470703)(67124,471499)(67223,472298)(67322,473094)(67421,473869)(67520,474660)(67619,475451)(67718,476251)(67817,477053)(67916,477839)(68015,478627)(68114,479420)(68213,480210)(68312,481005)(68411,481809)(68510,482583)(68609,483378)(68708,484167)(68807,484963)(68906,485762)(69005,486558)(69104,487333)(69203,488124)(69302,488915)(69401,489715)(69500,490517)(69599,491303)(69698,492091)(69797,492884)(69896,493674)(69995,494469)(70094,495273)(70193,496047)(70292,496842)(70391,497631)(70490,498427)(70589,499226)(70688,500022)(70787,500797)(70886,501588)(70985,502379)(71084,503179)(71183,503981)(71282,504767)(71381,505555)(71480,506348)(71579,507138)(71678,507933)(71777,508737)(71876,509511)(71975,510306)(72074,511095)(72173,511891)(72272,512690)(72371,513486)(72470,514261)(72569,515052)(72668,515843)(72767,516643)(72866,517445)(72965,518231)(73064,519019)(73163,519812)(73262,520602)(73361,521397)(73460,522201)(73559,522975)(73658,523770)(73757,524559)(73856,525355)(73955,526154)(74054,526950)(74153,527725)(74252,528516)(74351,529307)(74450,530107)(74549,530909)(74648,531695)(74747,532483)(74846,533276)(74945,534066)(75044,534861)(75143,535665)(75242,536439)(75341,537234)(75440,538023)(75539,538819)(75638,539618)(75737,540414)(75836,541189)(75935,541980)(76034,542771)(76133,543571)(76232,544373)(76331,545159)(76430,545947)(76529,546740)(76628,547530)(76727,548325)(76826,549129)(76925,549903)(77024,550698)(77123,551487)(77222,552283)(77321,553082)(77420,553878)(77519,554653)(77618,555444)(77717,556235)(77816,557035)(77915,557837)(78014,558623)(78113,559411)(78212,560204)(78311,560994)(78410,561789)(78509,562593)(78608,563367)(78707,564162)(78806,564951)(78905,565747)(79004,566546)(79103,567342)(79202,568117)(79301,568908)(79400,569699)(79499,570499)(79598,571301)(79697,572087)(79796,572875)(79895,573668)(79994,574458)(80093,575253)(80192,576057)(80291,576831)(80390,577626)(80489,578415)(80588,579211)(80687,580010)(80786,580806)(80885,581581)(80984,582372)(81083,583163)(81182,583963)(81281,584765)(81380,585551)(81479,586339)(81578,587132)(81677,587922)(81776,588717)(81875,589521)(81974,590295)(82073,591090)(82172,591879)(82271,592675)(82370,593474)(82469,594270)(82568,595045)(82667,595836)(82766,596627)(82865,597427)(82964,598229)(83063,599015)(83162,599803)(83261,600596)(83360,601386)(83459,602181)(83558,602985)(83657,603759)(83756,604554)(83855,605343)(83954,606139)(84053,606938)(84152,607734)(84251,608509)(84350,609300)(84449,610091)(84548,610891)(84647,611693)(84746,612479)(84845,613267)(84944,614060)(85043,614850)(85142,615645)(85241,616449)(85340,617223)(85439,618018)(85538,618807)(85637,619603)(85736,620402)(85835,621198)(85934,621973)(86033,622764)(86132,623555)(86231,624355)(86330,625157)(86429,625943)(86528,626731)(86627,627524)(86726,628314)(86825,629109)(86924,629913)(87023,630687)(87122,631482)(87221,632271)(87320,633067)(87419,633866)(87518,634662)(87617,635437)(87716,636228)(87815,637019)(87914,637819)(88013,638621)(88112,639407)(88211,640195)(88310,640988)(88409,641778)(88508,642573)(88607,643377)(88706,644151)(88805,644946)(88904,645735)(89003,646531)(89102,647330)(89201,648126)(89300,648901)(89399,649692)(89498,650483)(89597,651283)(89696,652085)(89795,652871)(89894,653659)(89993,654452)(90092,655242)(90191,656037)(90290,656841)(90389,657615)(90488,658410)(90587,659199)(90686,659995)(90785,660794)(90884,661590)(90983,662365)(91082,663156)(91181,663947)(91280,664747)(91379,665549)(91478,666335)(91577,667123)(91676,667916)(91775,668706)(91874,669501)(91973,670305)(92072,671079)(92171,671874)(92270,672663)(92369,673459)(92468,674258)(92567,675054)(92666,675829)(92765,676620)(92864,677411)(92963,678211)(93062,679013)(93161,679799)(93260,680587)(93359,681380)(93458,682170)(93557,682965)(93656,683769)(93755,684543)(93854,685338)(93953,686127)(94052,686923)(94151,687722)(94250,688518)(94349,689293)(94448,690084)(94547,690875)(94646,691675)(94745,692477)(94844,693263)(94943,694051)(95042,694844)(95141,695634)(95240,696429)(95339,697233)(95438,698007)(95537,698802)(95636,699591)(95735,700387)(95834,701186)(95933,701982)(96032,702757)(96131,703548)(96230,704339)(96329,705139)(96428,705941)(96527,706727)(96626,707515)(96725,708308)(96824,709098)(96923,709893)(97022,710697)(97121,711471)(97220,712266)(97319,713055)(97418,713851)(97517,714650)(97616,715446)(97715,716221)(97814,717012)(97913,717803)(98012,718603)(98111,719405)(98210,720191)(98309,720979)(98408,721772)(98507,722562)(98606,723357)(98705,724161)(98804,724935)(98903,725730)(99002,726519)(99101,727315)(99200,728114)(99299,728910)(99398,729685)(99497,730476)(99596,731267)(99695,732067)(99794,732869)(99893,733655)(99992,734443)
+    };
+    \addlegendentry{units(n)}
+    
+\end{axis}
+\end{tikzpicture}
+
+%\begin{figure}
+%\includegraphics[width=0.6\textwidth]{nlogn_200.png}
+%\caption{Comparison of $units(n)$ and the proven lower bound denoted as $LB(n)$} \label{nlogn_200}
+%\end{figure}
+
+%\begin{figure}
+%\includegraphics[width=0.4\textwidth]{nlogn_huge.png}
+%\caption{Comparison of $units(n)$ and the proven lower bound denoted as $LB(n)$ for large $n$} \label{nlogn_huge}
+%\end{figure}
+
+\begin{tikzpicture}
+\begin{axis}[
+    title={units(n) and lower bound comparison for small n},
+    xlabel={n [number of vertices]},
+    ylabel={number of tournaments},
+    xmin=0, xmax=20,
+    ymin=0, ymax=150,
+    xtick={0,3,6,9,12,15,18},
+    ytick={0,25,50,75,100,125,150},
+    legend pos=north west,
+    ymajorgrids=true,
+    grid style=dashed,
+]
+
+\addplot[
+    color=blue,
+    ]
+    coordinates {
+    (3,2)(4,3)(5,6)(6,11)(7,15)(8,19)(9,26)(10,35)(11,43)(12,51)(13,62)(14,71)(15,85)(16,98)(17,111)(18,127)(19,141)
+    };
+    \addlegendentry{$\log_2$(graphs remaining afer TT-fixing)}
+    
+\addplot[
+    color=red,
+    ]
+    coordinates {
+(3,1)(4,2)(5,3)(6,5)(7,8)(8,12)(9,17)(10,23)(11,29)(12,37)(13,45)(14,54)(15,64)(16,75)(17,87)(18,100)(19,114)
+    };
+    \addlegendentry{$\log_2$(equivalence classes)}
+    
+\end{axis}
+\end{tikzpicture}
 
 \section{Results}
 
@@ -266,6 +371,11 @@ Our SAT encoding allowed us to compute optimal isolators up to $n=6$. Figures \r
 \begin{figure}
 \includegraphics[width=0.6\textwidth]{iso_4.png}
 \caption{Isomorphism class representatives admitted by a particular isolator for 4-vertex tournaments. Red edges are edges fixed by unit clauses of the isolator, and the isolator has only unit clauses.} \label{fig1}
+\end{figure}
+
+\begin{figure}
+\includegraphics[width=1.0\textwidth]{ramsey_5_flowchart.png}
+\caption{Flowchart showing one-off relationships between n=5 equivalence classes} \label{flowchart}
 \end{figure}
 
 \begin{figure}

diff --git a/nlogn_units.py b/nlogn_units.py
@@ -1,10 +1,18 @@
 import math
 import matplotlib.pyplot as plt
 
+def optimistic_ramsey_nums_cond(n_verts):
+	if n_verts >= 64: # nothing known for k>7
+		return naive_ramsey_cond(n_verts/34) + 6
+	for k, Rk in zip([7,6,5,4,3,2], [34,28,14,8,4,2]):
+		if n_verts >= Rk:
+			return k
+	return 1
+
 def known_ramsey_nums_cond(n_verts):
 	if n_verts >= 64: # nothing known for k>7
-		return naive_ramsey_cond(n_verts)
-	for k, Rk in zip([7,6,5,4,3,2], [54,28,14,8,4,2]):
+		return naive_ramsey_cond(n_verts/47) + 6
+	for k, Rk in zip([7,6,5,4,3,2], [47,28,14,8,4,2]):
 		if n_verts >= Rk:
 			return k
 	return 1
@@ -14,7 +22,7 @@ def naive_ramsey_cond(n_verts):
 
 def produce_table(ramsey_cond, upto=100):
 	ret = {}
-	for i in range(1, upto):
+	for i in range(2, upto):
 		verts_remaining = i
 		units_added = 0
 		while verts_remaining > 0:
@@ -30,8 +38,12 @@ def produce_table(ramsey_cond, upto=100):
 def plot_unit_counts(upto=100000):
 
 	tab_naive = produce_table(naive_ramsey_cond, upto=upto)
+	tab_known = produce_table(known_ramsey_nums_cond, upto=upto)
+	tab_hope = produce_table(optimistic_ramsey_nums_cond, upto=upto)
 	xs = list(range(2,upto))
 	ys = [tab_naive[x] for x in xs]
+	ys_known = [tab_known[x] for x in xs]
+	ys_hope = [tab_hope[x] for x in xs]
 	
 	met1 = lambda x: x * (math.log(x,2) - 2)/2
 	curr = 0
@@ -49,16 +61,26 @@ def plot_unit_counts(upto=100000):
 	if upto >= 100000:
 		xs = sampler(xs)
 		ys = sampler(ys)
+		ys_known = sampler(ys_known)
+		ys_hope = sampler(ys_hope)
 
-
-	plt.plot(xs, ys, label='units(n)')
+	met2ys = [met2(x) for x in xs]
+	plt.plot(xs, ys_hope, label='units_hope(n)')
+	plt.plot(xs, ys, label='units_naive(n)')
+	plt.plot(xs, ys_known, label='units(n)')
 	#plt.plot(xs, [4*x for x in xs])
 	#plt.plot(xs, [met1(x) for x in xs])
-	plt.plot(xs, [met2(x) for x in xs], label='LB(n)')
+	plt.plot(xs, met2ys, label='LB(n)')
 	plt.legend()
 	plt.xlabel('n')
 
 	plt.show()
+	#print('units(n)')
+	#print(''.join([f'({x},{y})' for x, y in zip(xs, ys)]))
+	#print()
+	#print()
+	#print('LB(n)')
+	#print(''.join([f'({x},{y})' for x, y in zip(xs, met2ys)]))
 
 def compare_bounds(upto=1000000):
 	tab_naive = produce_table(naive_ramsey_cond, upto=upto)
@@ -87,5 +109,6 @@ def compare_bounds(upto=1000000):
 	print(f'pct satisfying lower bound: {pct_correct/(upto-2)}')
 
 if __name__ == '__main__':
-	compare_bounds(1000000)
-	#plot_unit_counts(200)
+	#compare_bounds(1000000)
+	plot_unit_counts(200)
+	#plot_unit_counts(100000)

diff --git a/big_iso.py b/big_iso.py
@@ -1,0 +1,57 @@
+import math
+import util
+import sys
+from nlogn_units import known_ramsey_nums_cond, naive_ramsey_cond
+
+def make_big_iso(N, use_iso_at):
+    ret = []
+    remaining = N
+    while remaining > use_iso_at:
+        TT_verts = known_ramsey_nums_cond(remaining)
+        #print('r',remaining, 'v', TT_verts)
+        start = remaining - TT_verts + 1
+        for src in range(start, start + TT_verts - 1):
+            for snk in range(src + 1, start + TT_verts):
+                print(src, snk)
+                ret.append([util.edge2ind((src,snk))])
+        remaining -= TT_verts
+    curr_iso = util.CNF(ret)
+    if remaining > 2:
+        remaining_iso = util.isolator_clauses(remaining)
+        #print('iso with', remaining)
+        curr_iso += remaining_iso.clauses
+    return curr_iso
+
+def compare_remaining_classes():
+    for n in range(3, 8):
+        map_graphs = util.map_graphs(n)
+        perfect = util.isolator_clauses(n)
+        ramsey_TT = make_big_iso(n,1)
+        perfect_filt = util.filter_graphs(map_graphs, perfect)
+        ramsey_filt = util.filter_graphs(map_graphs, ramsey_TT)
+        print(f'{n} vertices. perfect iso: {len(perfect_filt)},  TT-fix iso: {len(ramsey_filt)}')
+
+def compare_large_n():
+    seq = [2, 4, 12, 56, 456, 6880, 191536, 9733056, 903753248, 154108311168, 48542114686912, 28401423719122304, 31021002160355166848, 63530415842308265100288, 244912778438520759443245824, 1783398846284777975419600287232, 24605641171260376770598003978281472]
+    print('max n', len(seq) + 2)
+    trips = []
+    for i, elem in enumerate(seq):
+        n = i + 3
+        n_units = len(make_big_iso(n,1))
+        log_n_graphs = ((n*(n-1))//2 - n_units)
+        trips.append((n, log_n_graphs, int(math.log(elem,2))))
+    print('log_graphs_after_TT_fix(n)')
+    print(''.join([f'({x},{y})' for x, y, _ in trips]))
+    print()
+    print()
+    print('log_num_eq_classes(n)')
+    print(''.join([f'({x},{y})' for x, _, y in trips]))
+
+
+if __name__ == '__main__':
+    n = int(sys.argv[1])
+    use_iso_at = 8 if len(sys.argv) <=2 else int(sys.argv[2])
+    use_iso_at = max([1, use_iso_at])
+    #print(make_big_iso(n, use_iso_at))
+    #compare_remaining_classes()
+    compare_large_n()

diff --git a/visualize.py b/visualize.py
@@ -66,6 +66,7 @@ def find_similar_graphs(n, all_edges):
 
     # there's probably a cool alg for doing this; I'm going to brute force since n is small
     pairs = []
+    stats = [0 for _ in range(len(graphs))]
     for g1_ind, g1 in enumerate(graphs):
         for g2_ind in range(g1_ind + 1, len(graphs)):
             last_neq = None
@@ -78,6 +79,18 @@ def find_similar_graphs(n, all_edges):
                         break
             if last_neq is not None and last_neq != -1:
                 pairs.append((g1_ind, g2_ind, last_neq))
+                stats[g1_ind] += 1
+                stats[g2_ind] += 1
+
+    print(f'total equiv classes: {len(graphs)}')
+
+    max_edges = max(stats)
+    num_at_max = len([i for i in range(len(graphs)) if stats[i] == max_edges])
+    print(f'max edges (i.e. "connected" eq classes): {max_edges}. A total of {num_at_max} equiv classes have this number of edges.')
+    min_edges = min(stats)
+    num_at_min = len([i for i in range(len(graphs)) if stats[i] == min_edges])
+    print(f'min edges (i.e. "connected" eq classes): {min_edges}. A total of {num_at_min} equiv classes have this number of edges.')
+    print(f'average degree: {sum(stats)/len(stats)}')
                 
     return pairs
 
@@ -86,11 +99,23 @@ def visualize_similarity(n, all_edges):
     sim_graphs = find_similar_graphs(n, all_edges)
     sim_g_edges = [(x, y) for x,y,_ in sim_graphs]
     g.add_edges_from(sim_g_edges)
-    pos = nx.spring_layout(g)
+    if n == 5:
+        pos = nx.spectral_layout(g)
+    else:
+        pos = nx.circular_layout(g)
     pos2 = {}
     
     for v, v2 in zip(range(0, len(all_edges)), pos):
         pos2[v] = pos[v2]
+
+    #pos[5][0] -= 0.5
+    #pos[7][0] += 0.5
+    #pos[5][1] += 0.1
+    #pos[7][1] += 0.1
+    #pos[3][0] -= 0.1
+    #pos[8][0] += 0.1
+    #pos[3][1] += 0.2
+    #pos[8][1] += 0.2
 
     USE_IMAGES=False
     if USE_IMAGES:
@@ -120,7 +145,7 @@ def visualize_similarity(n, all_edges):
             a.axis('off')
         ax.axis('off')
     else:
-        nx.draw(g, pos)
+        nx.draw(g,pos2, with_labels=True)
     plt.show()
 
 def main(n, iso_file, n_to_plot):
